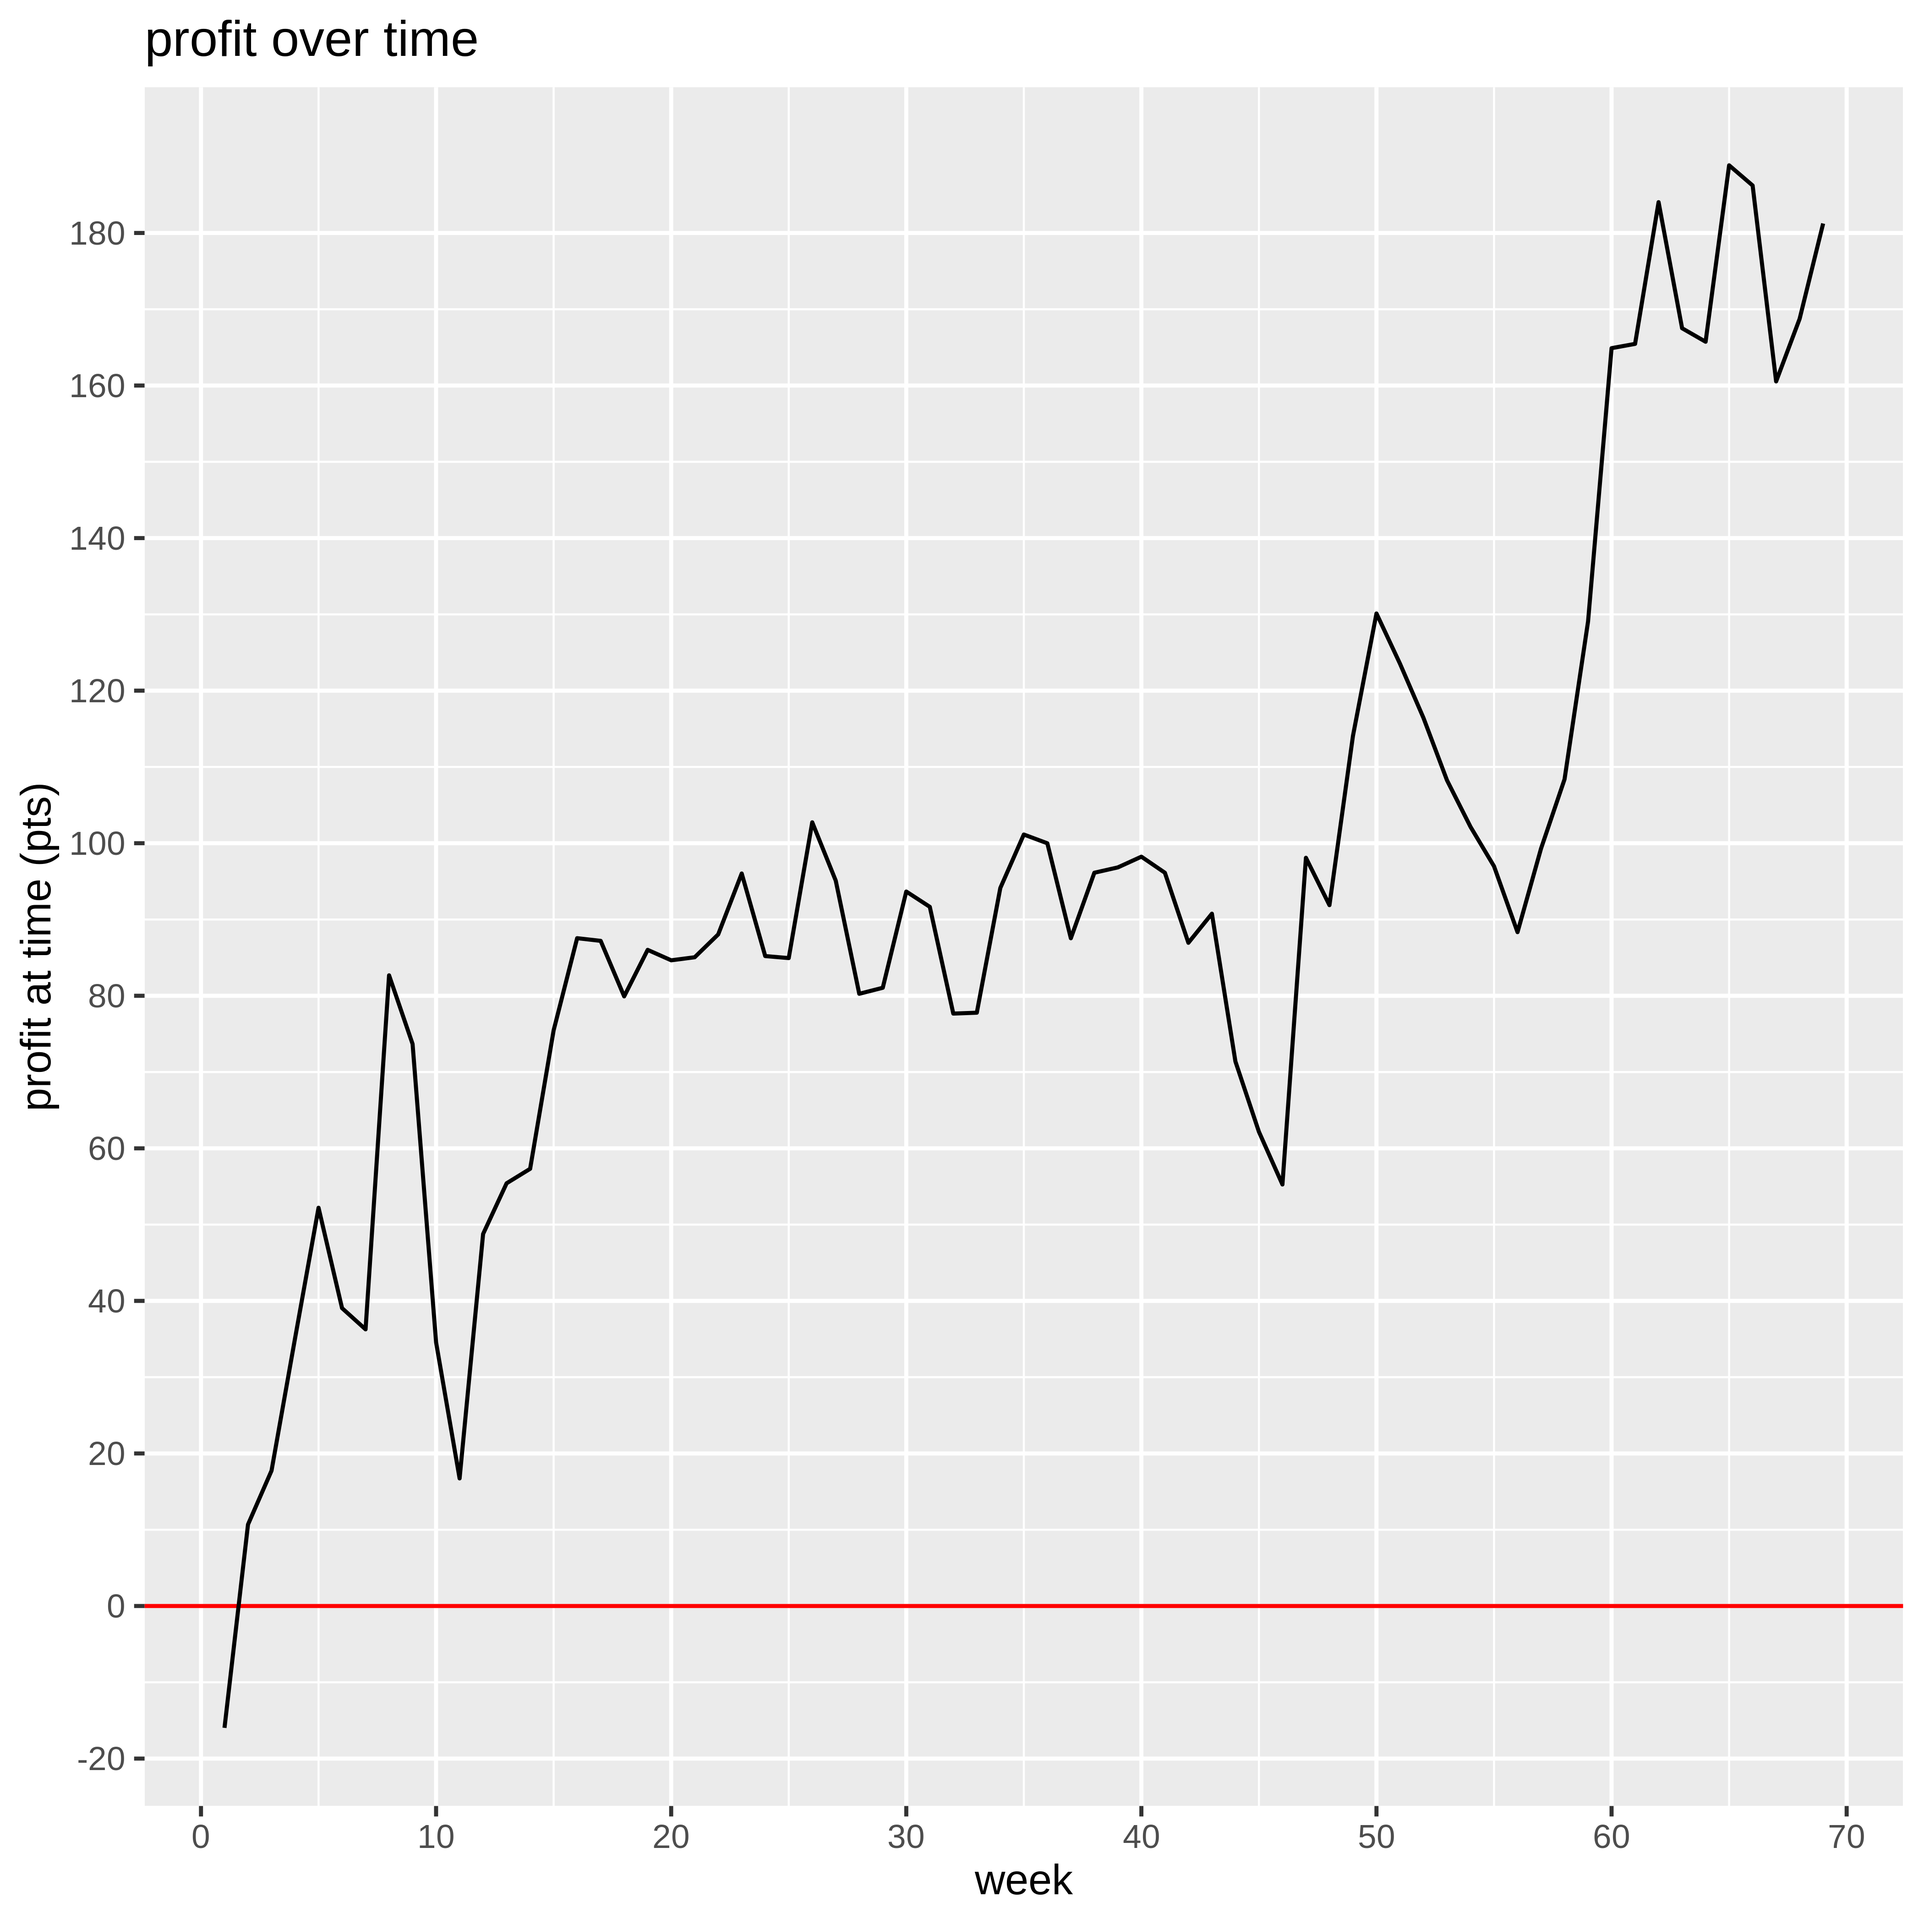
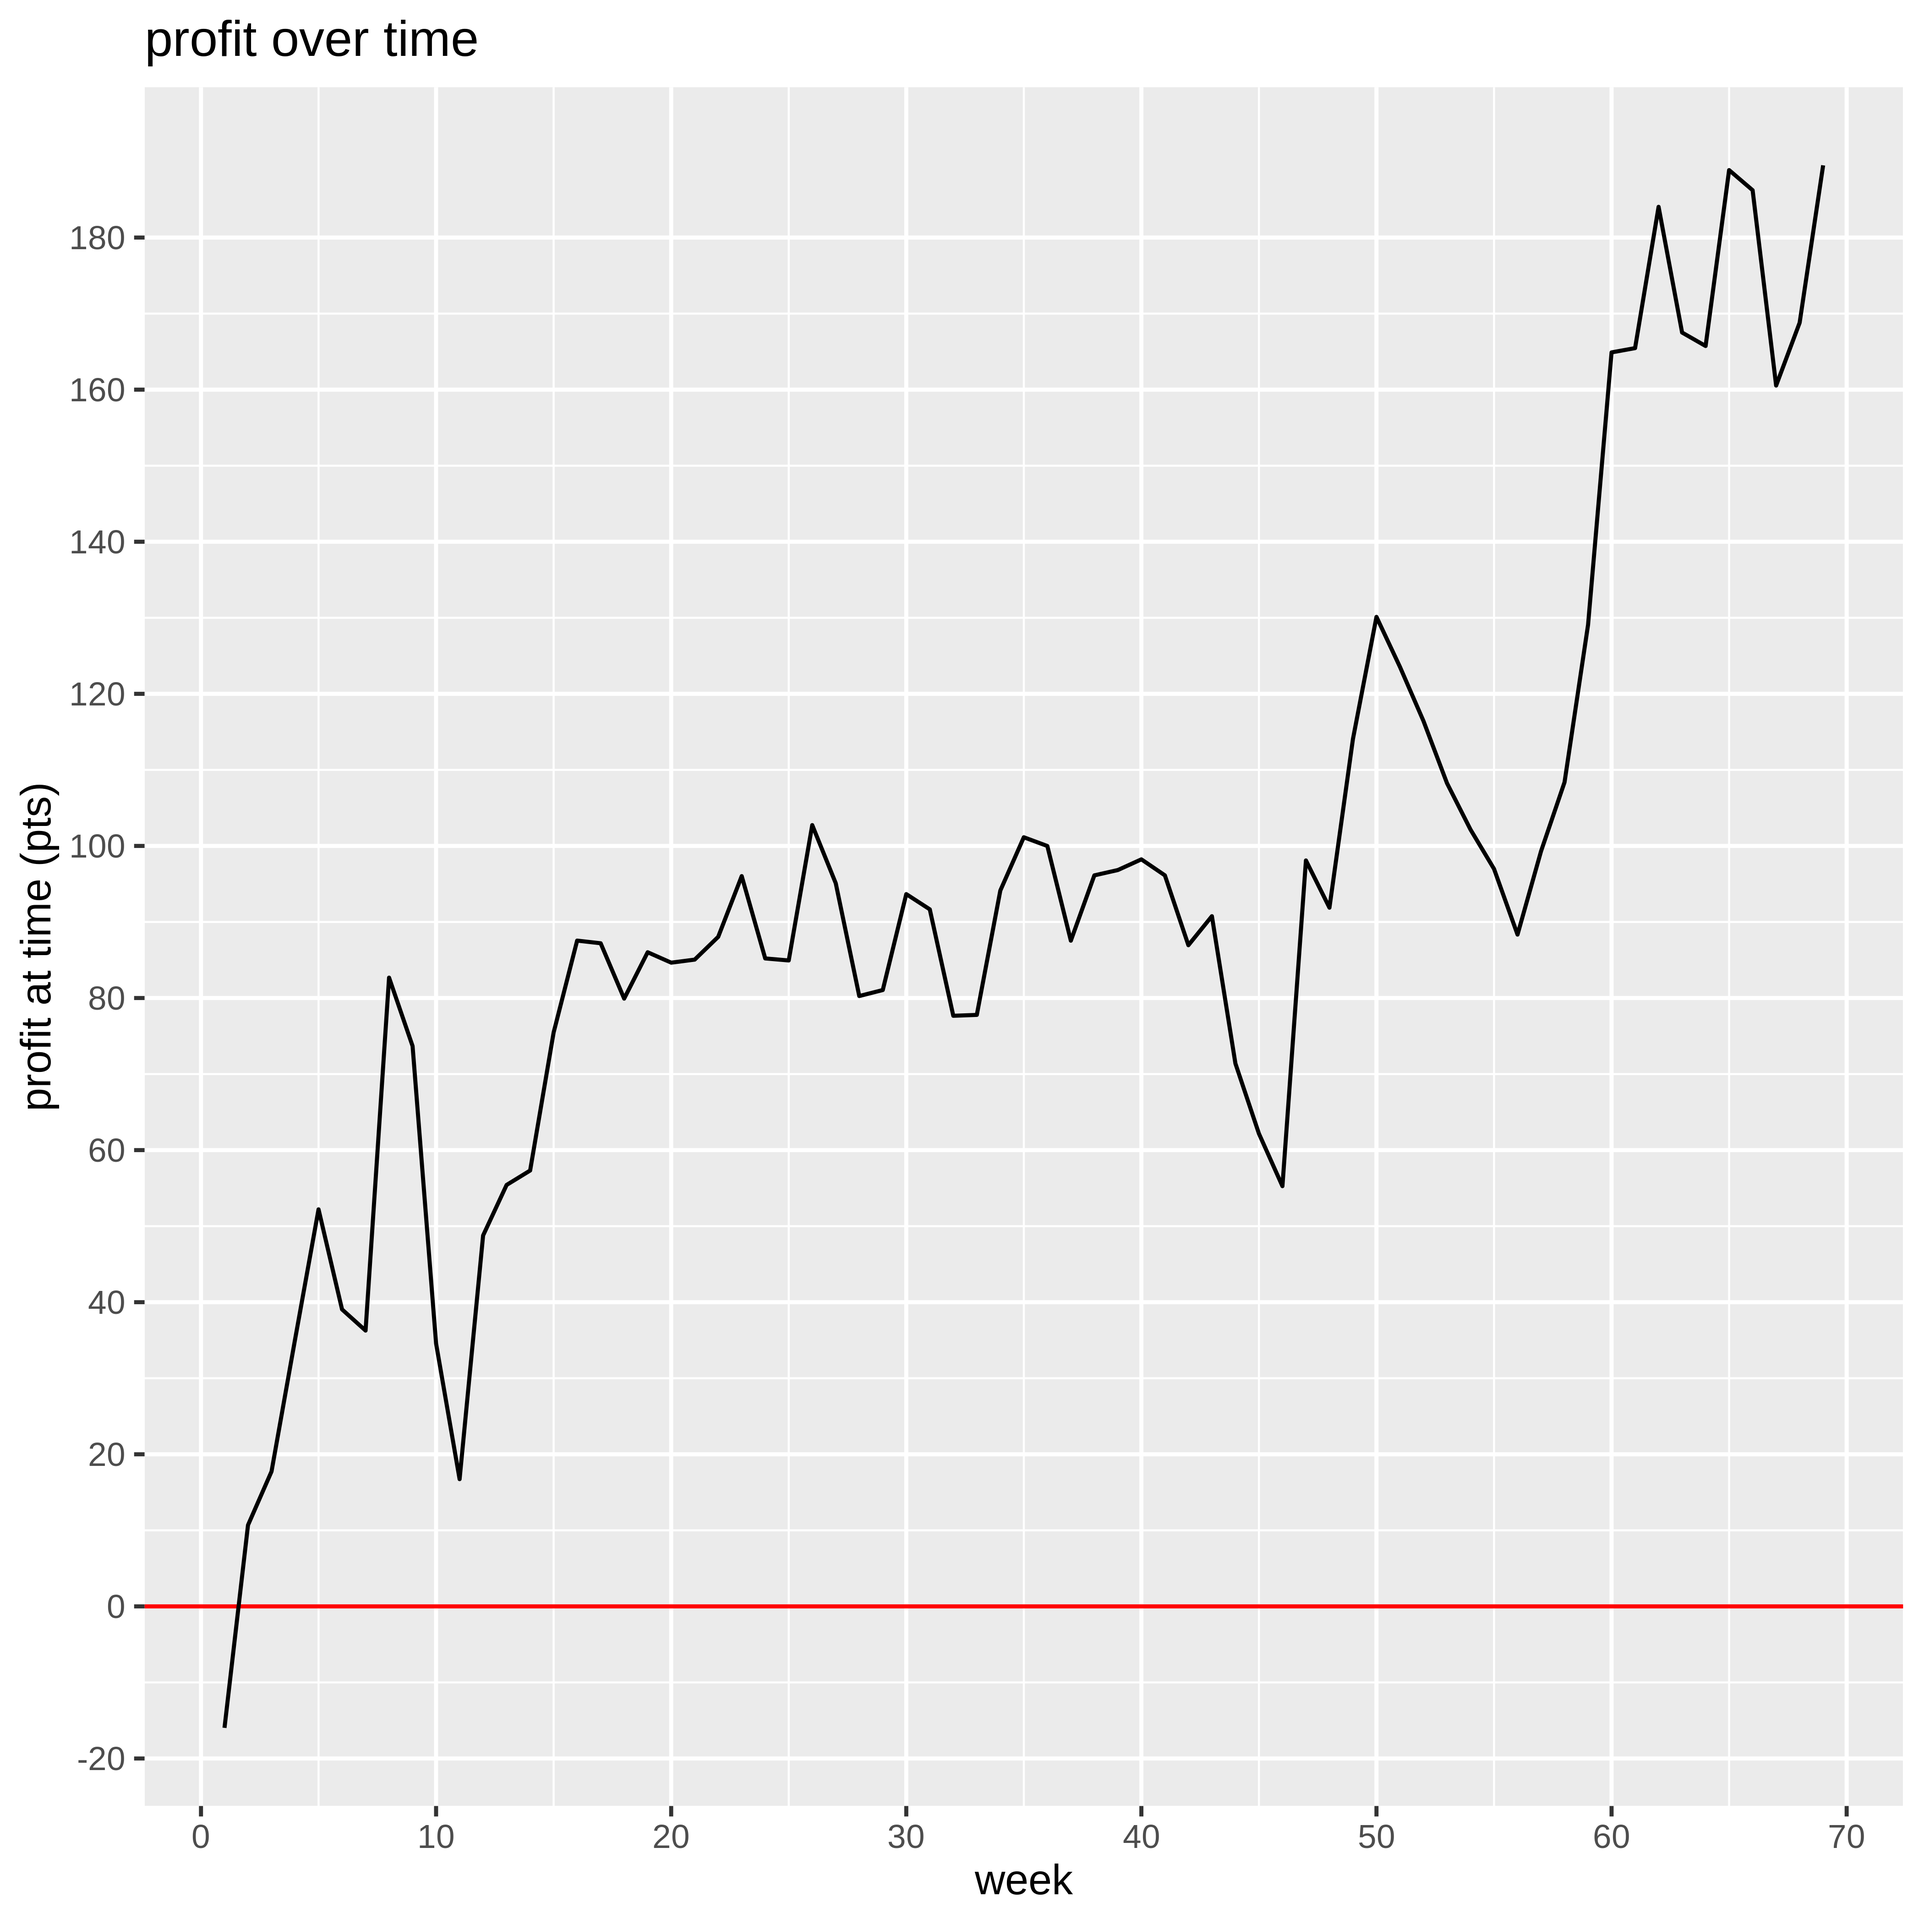
Daily auto build of report.md. Travis build: 1248.

Changed region(s): [[0.9357, 0.1248, 0.9669, 0.156], [0.0312, 0.3431, 0.0624, 0.3743], [0.0312, 0.1871, 0.0624, 0.2183]]

diff --git a/report.md b/report.md
@@ -1,6 +1,6 @@
 ---
 title: "report"
-date: "2019-08-12 18:02:17"
+date: "2019-08-13 18:02:32"
 output: github_document
 ---
 
@@ -17,9 +17,9 @@ output: github_document
 
 
 
-We put in €9000 and we've made a profit of €8,748 on the bets. However, we've paid three subscriptions of £600 which amounts to €1,933 so our net profit is €6,815. That's a return on capital of 75.72%. This gives us a current bank of €15815.
+We put in €9000 and we've made a profit of €9,262 on the bets. However, we've paid three subscriptions of £600 which amounts to €1,938 so our net profit is €7,324. That's a return on capital of 81.38%. This gives us a current bank of €16324.
 
-We have wagered a total of €113,901 and made a betting profit of €8,748, which gives us a betting ROI of 7.68%.
+We have wagered a total of €114,133 and made a betting profit of €9,262, which gives us a betting ROI of 8.12%.
 
 
 # Have any bookies been riddled?
@@ -29,8 +29,8 @@ We have wagered a total of €113,901 and made a betting profit of €8,748, whi
 |:------------|:-----|:-----|:----|:-----|
 |Unibet       |+17   |0     |+55  |+72   |
 |Paddy Power  |+53   |0     |+1   |+55   |
+|Matchbook    |+50   |0     |+2   |+52   |
 |Betfred      |+20   |0     |+29  |+49   |
-|Matchbook    |+40   |0     |+4   |+44   |
 |Bet365       |0     |-3    |+36  |+36   |
 |William Hill |-3    |0     |+22  |+20   |
 |SkyBet       |+18   |0     |-1   |+18   |
@@ -66,7 +66,7 @@ We have wagered a total of €113,901 and made a betting profit of €8,748, whi
 
 
 
-We've had winnings of 1677 points and losses of 1496 points, so even if our odds were only a fraction 1496 / 1677 = 0.89 of what we actually got, we'd still be breaking even.
+We've had winnings of 1687 points and losses of 1498 points, so even if our odds were only a fraction 1498 / 1687 = 0.89 of what we actually got, we'd still be breaking even.
 
 
 # Winners and losers
@@ -76,8 +76,8 @@ Here's a count of the number of winners, losers, and places we've had.
 
 |result                  |    n|percent |
 |:-----------------------|----:|:-------|
-|Win only Lose           | 1205|71%     |
-|Win only Win            |  239|14%     |
+|Win only Lose           | 1206|71%     |
+|Win only Win            |  240|14%     |
 |Each way Lose           |  117|7%      |
 |Win only Unmatched Loss |   61|4%      |
 |Each way Place          |   40|2%      |
@@ -90,8 +90,8 @@ Here's a count of the number of winners, losers, and places we've had.
 
 
 
-* We've made 837 _win only_ bets, on which we've made a profit of €7,945. 
-* We've made 108 _each way_ bets, on which we've made a profit of €803.
+* We've made 839 _win only_ bets, on which we've made a profit of €8,461. 
+* We've made 108 _each way_ bets, on which we've made a profit of €801.
 
 
 # Unmatched Bets
@@ -100,15 +100,15 @@ Here's a count of the number of winners, losers, and places we've had.
 
 We'll consider only win only bets (and not each way bets) in this section.
 
-Of the bets that have been matched, there have been 150 winners and 675 losers. That means that 18% of matched bets have been winners. Of the bets that have not been matched, there have been 13 winners and 61 losers. That means that 18% of unmatched bets have been winners. Unmatched bets have saved us 62 points on losers but cost us 81 on winners, whereas getting better odds on posted bets which were matched has made us 69 points (where I have assumed that when we post, we get 20% better odds than if we'd just taken best available at the time). So overall, choosing to post when we do (rather than taking the bad bbest available odds) has saved us 50 points.
+Of the bets that have been matched, there have been 151 winners and 676 losers. That means that 18% of matched bets have been winners. Of the bets that have not been matched, there have been 13 winners and 61 losers. That means that 18% of unmatched bets have been winners. Unmatched bets have saved us 62 points on losers but cost us 81 on winners, whereas getting better odds on posted bets which were matched has made us 71 points (where I have assumed that when we post, we get 20% better odds than if we'd just taken best available at the time). So overall, choosing to post when we do (rather than taking the bad bbest available odds) has saved us 52 points.
 
 
 # Summary
 
 
 
-We've made a gross profit of €8,748 and paid €3,221 in subscription fees, so our net profit is €5,527.
+We've made a gross profit of €9,262 and paid €3,230 in subscription fees, so our net profit is €6,032.
 
-* Rory has a 44% share of the investment, therefore his net profit is €2,456.
-* Aidan has a 44% share of the investment, therefore his net profit is €2,456.
-* John has a 11% share of the investment, therefore his net profit is €614.
+* Rory has a 44% share of the investment, therefore his net profit is €2,681.
+* Aidan has a 44% share of the investment, therefore his net profit is €2,681.
+* John has a 11% share of the investment, therefore his net profit is €670.
